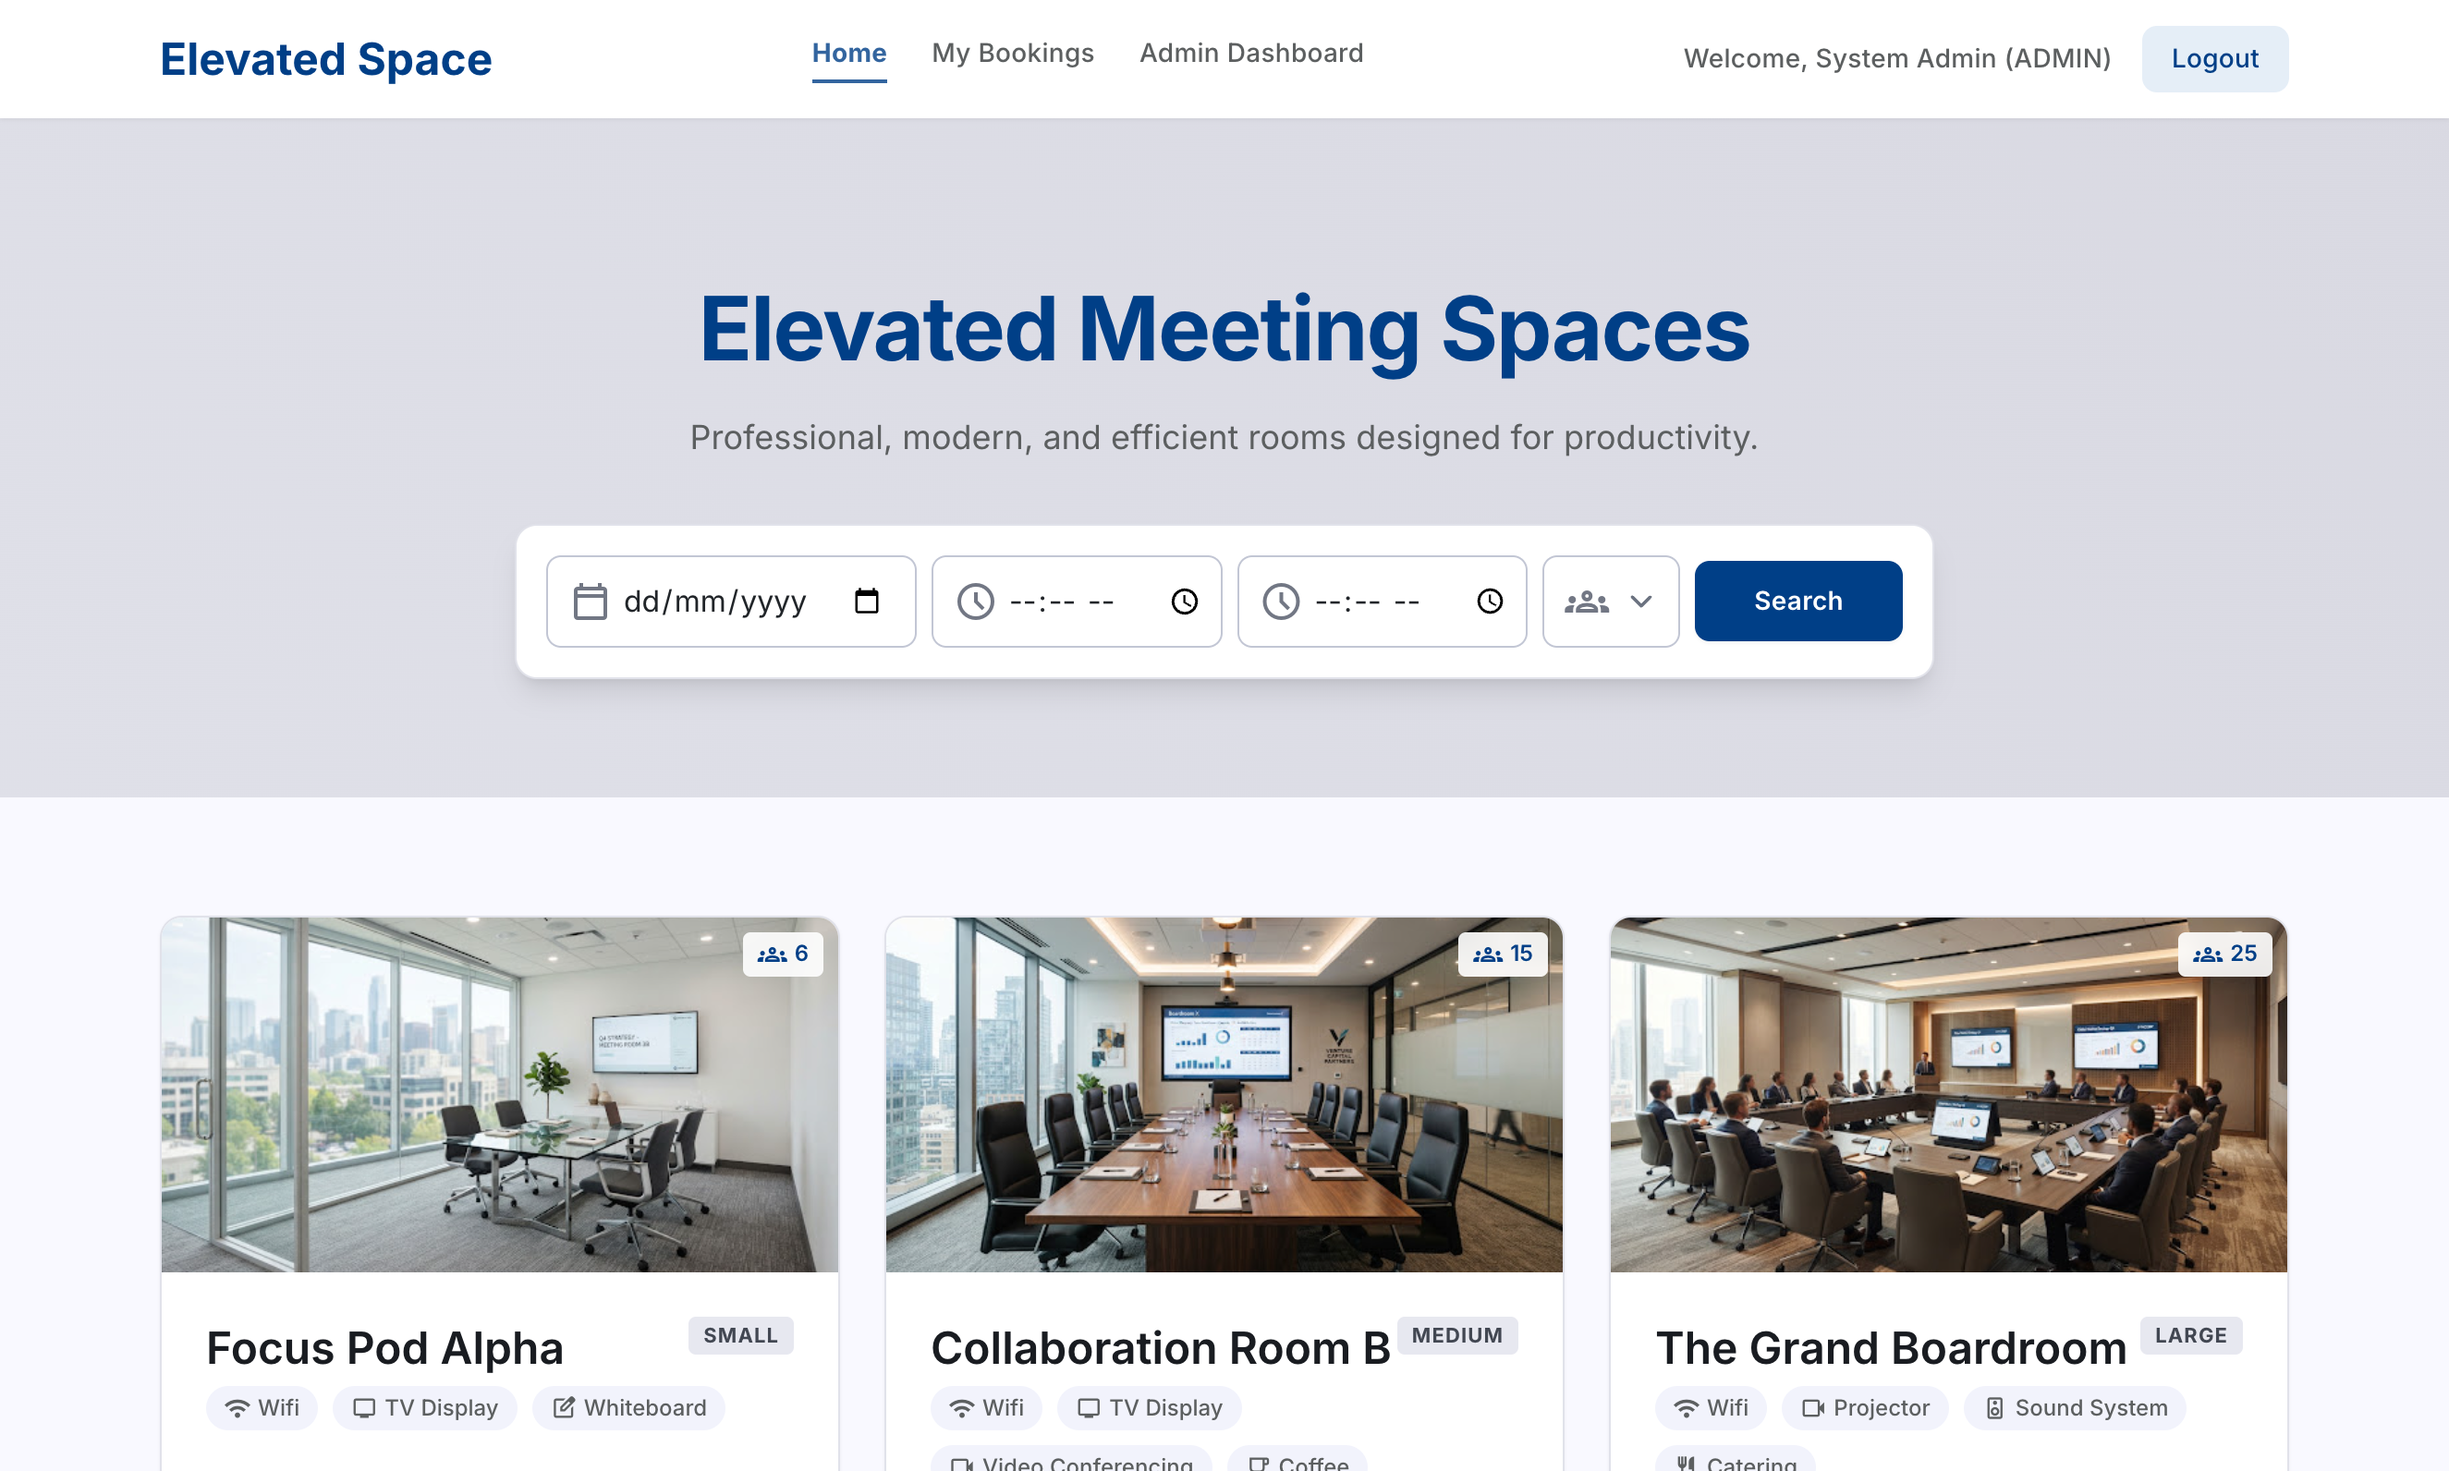
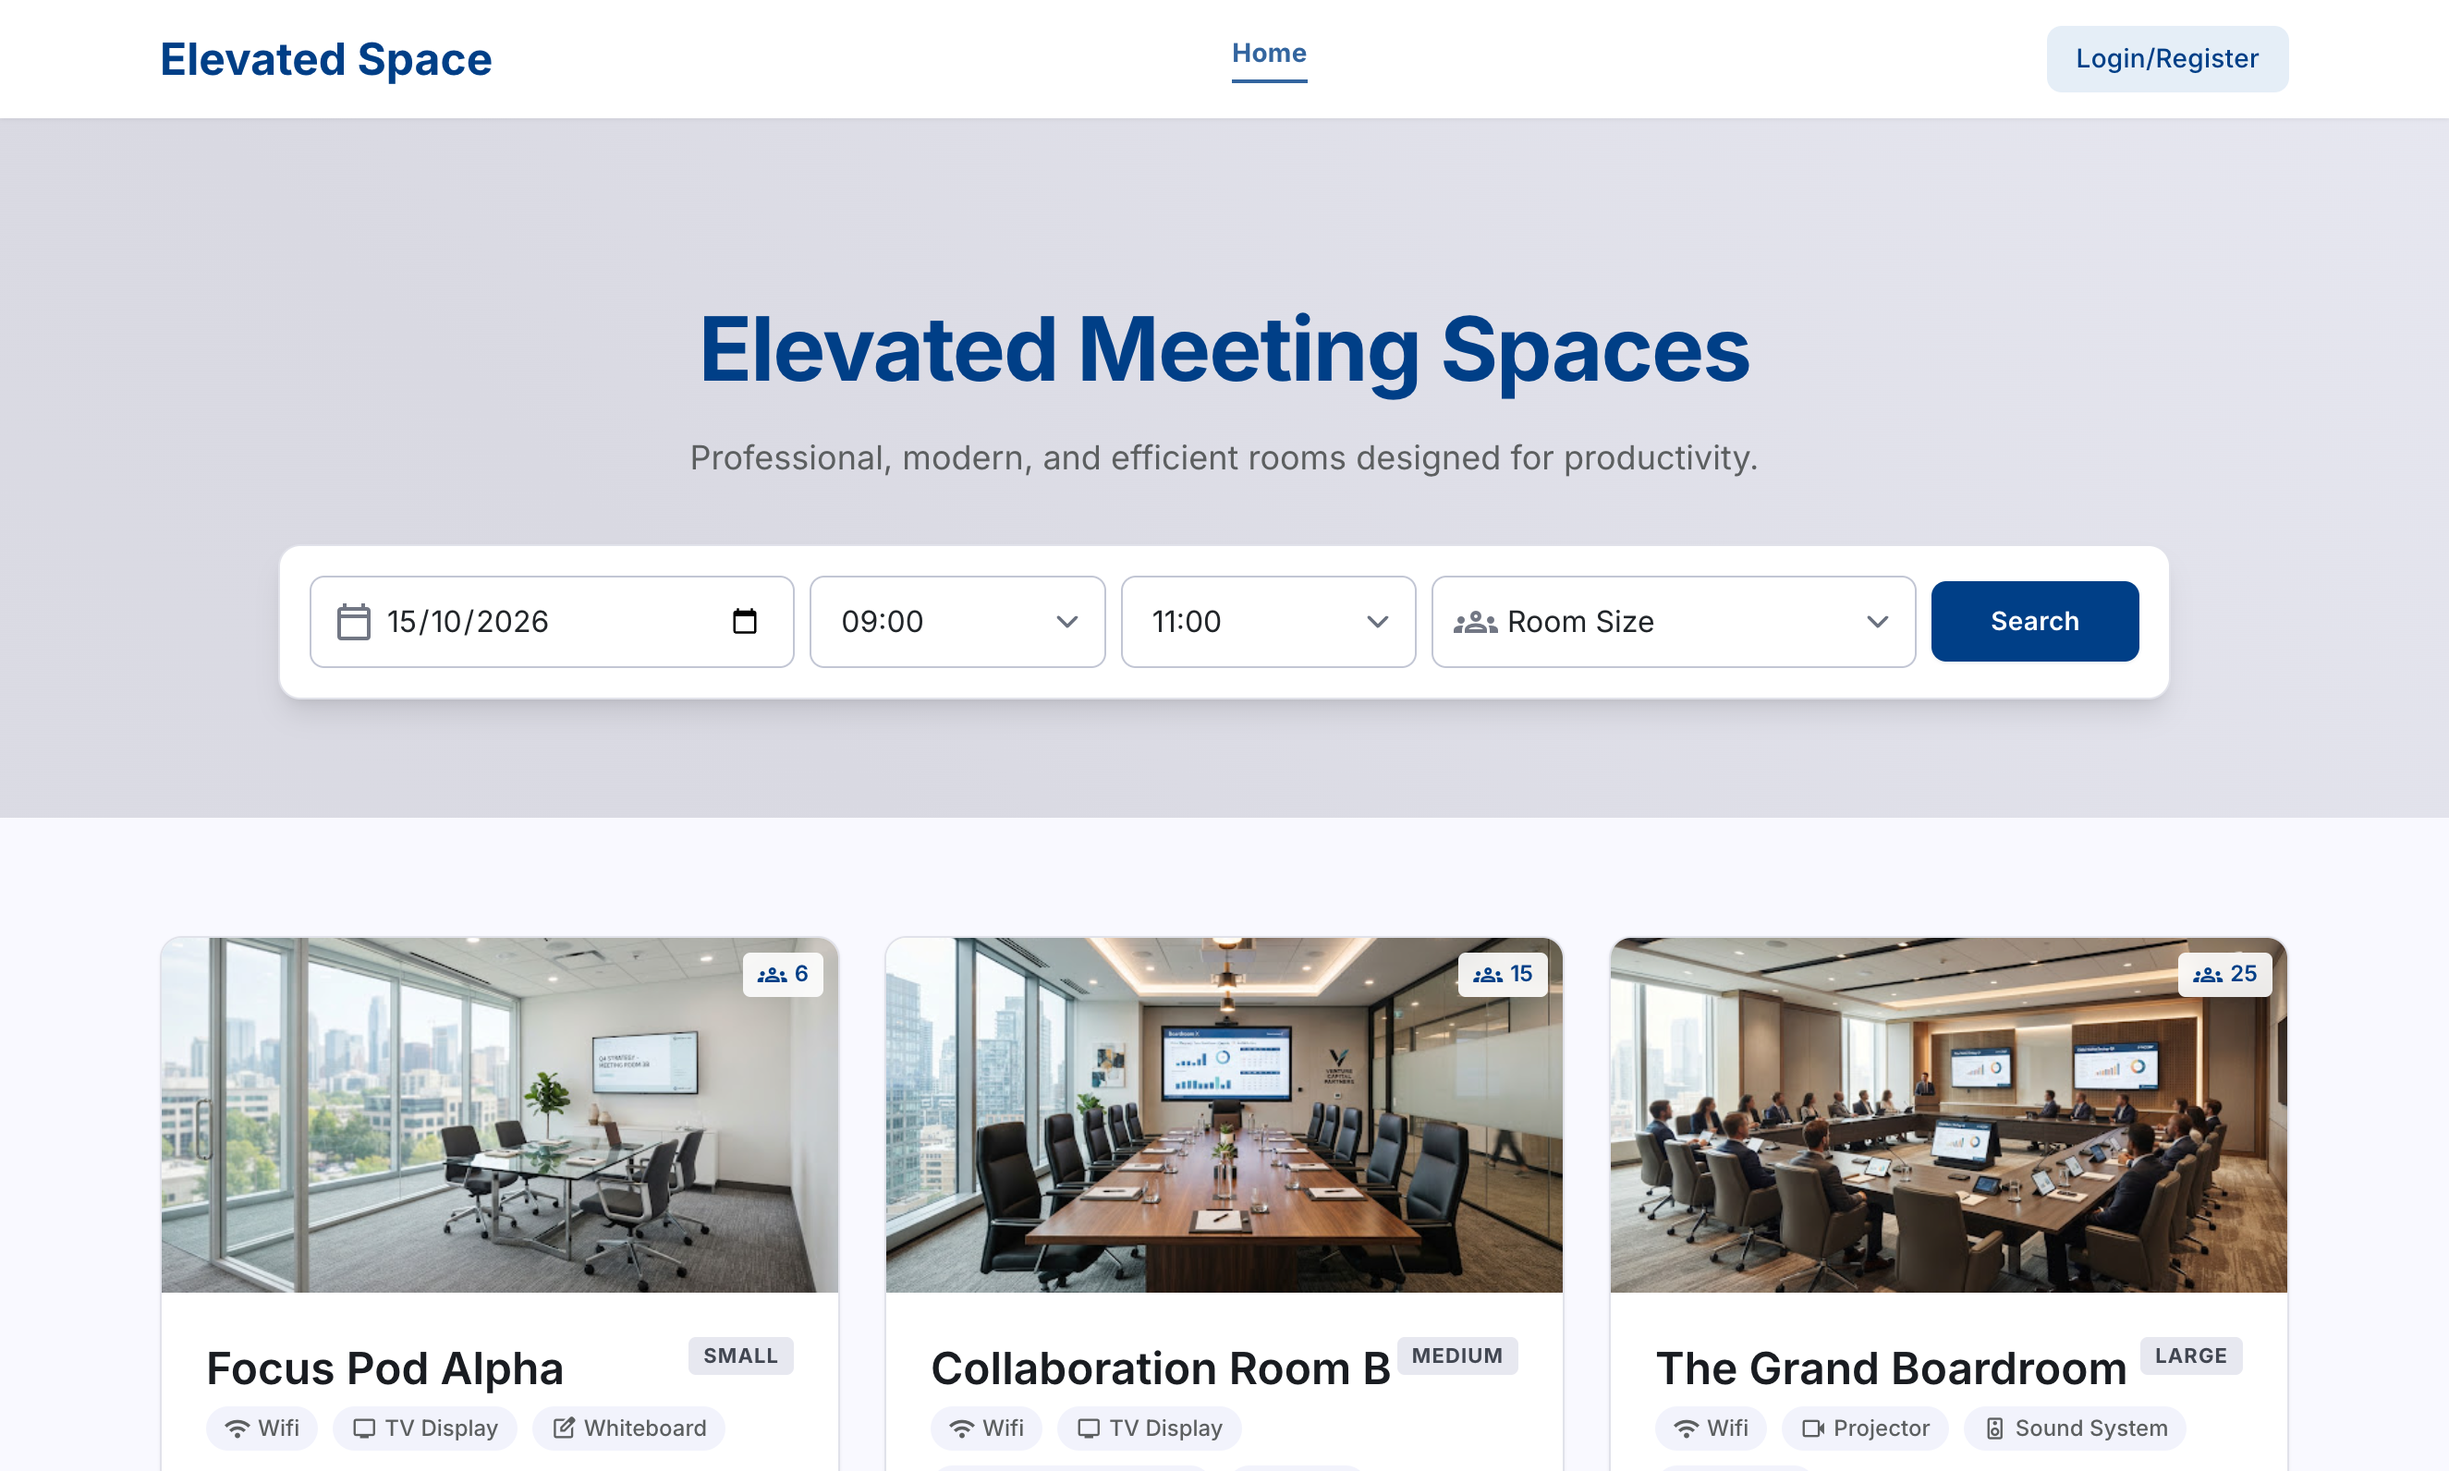
test: align TC-12 and FR-013 docs with 7-day cooling-off cancellation rule
The cancellation semantics changed in 9d60cb5 from "7 days before start"
to "within 7 days of purchase (cooling-off), before start time" — this
aligns the test case and documentation with the implemented behaviour:

- TC-12 rewritten: verifies cooling-off rejection for purchases older
  than 7 days (backdated createdAt), rejection of already-started
  bookings, plus the existing ownership/refund/re-book/audit checks
- SRS FR-013 + US-09, testing.md (TC-12 row, manual step 10) and README
  reworded to the cooling-off rule
- Cancel button tooltip updated to match
- Refreshed test-results and home screenshots (12/12 passing)

diff --git a/tests/suite.js b/tests/suite.js
@@ -238,12 +238,12 @@
         assertEquals(mine[0].userId, 'U002', 'Returned booking must belong to the signed-in user');
     });
 
-    // TC-12 — Customer cancellation window and refund (FR-013)
-    test('TC-12', 'Customers can cancel their own bookings at least 7 days before start; the slot is released and the payment refunded.', 'FR-013', async () => {
-        // Far-future booking (60 days out) on R001 -> cancellable
-        const farDate = new Date(Date.now() + 60 * 24 * 60 * 60 * 1000).toISOString().split('T')[0];
+    // TC-12 — Customer cancellation: 7-day cooling-off from purchase (FR-013)
+    test('TC-12', 'Customers can cancel their own bookings within 7 days of purchase and before start time; the slot is released and the payment refunded.', 'FR-013', async () => {
+        // Future booking on R001, purchased just now -> cancellable
+        const futureDate = new Date(Date.now() + 60 * 24 * 60 * 60 * 1000).toISOString().split('T')[0];
         setSession(EMPLOYEE);
-        const far = await window.EMS.Booking.createBooking('R001', farDate, '10:00', '12:00');
+        const far = await window.EMS.Booking.createBooking('R001', futureDate, '10:00', '12:00');
         await window.EMS.Booking.confirmPayment(far.id);
 
         // Another user must not cancel someone else's booking
@@ -253,31 +253,42 @@
             'own bookings', 'Users must only cancel their own bookings'
         );
 
-        // Owner cancels: status CANCELLED, mock payment refunded
+        // Owner cancels during the cooling-off window: CANCELLED + refunded
         setSession(EMPLOYEE);
         const cancelled = await window.EMS.Booking.cancelBooking(far.id);
         assertEquals(cancelled.status, 'CANCELLED', 'Cancelled booking must be CANCELLED');
         assertEquals(cancelled.paymentStatus, 'REFUNDED', 'Paid amount must be refunded on cancellation');
 
         // The slot is bookable again
-        const rebooked = await window.EMS.Booking.createBooking('R001', farDate, '10:00', '12:00');
+        const rebooked = await window.EMS.Booking.createBooking('R001', futureDate, '10:00', '12:00');
         assertEquals(rebooked.status, 'PENDING', 'Released slot must be immediately re-bookable');
 
-        // Near-future booking (3 days out) must NOT be cancellable
-        const nearDate = new Date(Date.now() + 3 * 24 * 60 * 60 * 1000).toISOString().split('T')[0];
-        const near = await window.EMS.Booking.createBooking('R002', nearDate, '10:00', '11:00');
-        await window.EMS.Booking.confirmPayment(near.id);
+        // Purchase older than 7 days must NOT be cancellable (backdate createdAt)
+        const stale = await window.EMS.Booking.createBooking('R002', futureDate, '10:00', '11:00');
+        const data = window.EMS.Storage.getData();
+        data.bookings.find(b => b.id === stale.id).createdAt = new Date(Date.now() - 8 * 24 * 60 * 60 * 1000).toISOString();
+        window.EMS.Storage.saveData(data);
         await assertRejects(
-            () => window.EMS.Booking.cancelBooking(near.id),
-            '7 days', 'Cancellations inside the 7-day window must be rejected'
+            () => window.EMS.Booking.cancelBooking(stale.id),
+            'within 7 days of purchase', 'Cancellations after the 7-day cooling-off must be rejected'
+        );
+
+        // A booking whose start time has passed must NOT be cancellable
+        const yesterday = new Date(Date.now() - 24 * 60 * 60 * 1000).toISOString().split('T')[0];
+        const started = await window.EMS.Booking.createBooking('R003', yesterday, '10:00', '11:00');
+        await assertRejects(
+            () => window.EMS.Booking.cancelBooking(started.id),
+            'already started', 'Past bookings must not be cancellable'
         );
 
         // Terminal statuses can no longer be cancelled
+        const doomed = await window.EMS.Booking.createBooking('R004', futureDate, '13:00', '14:00');
+        await window.EMS.Booking.confirmPayment(doomed.id);
         setSession(ADMIN);
-        await window.EMS.Admin.markNoShow(near.id);
+        await window.EMS.Admin.markNoShow(doomed.id);
         setSession(EMPLOYEE);
         await assertRejects(
-            () => window.EMS.Booking.cancelBooking(near.id),
+            () => window.EMS.Booking.cancelBooking(doomed.id),
             'PENDING or CONFIRMED', 'NO_SHOW bookings must not be cancellable'
         );
 

diff --git a/src/app.js b/src/app.js
@@ -251,7 +251,7 @@
                 </td>
                 <td class="py-4 px-6 text-right">
                     ${canCancel(b) ? `
-                        <button class="px-3 py-1.5 bg-status-no-show/10 hover:bg-status-no-show/20 text-status-no-show rounded-md font-semibold text-label-sm transition-colors flex items-center gap-1 shadow-sm ml-auto" onclick="window.EMS.App.cancelBooking('${b.id}')" title="Cancellable until 7 days before start">
+                        <button class="px-3 py-1.5 bg-status-no-show/10 hover:bg-status-no-show/20 text-status-no-show rounded-md font-semibold text-label-sm transition-colors flex items-center gap-1 shadow-sm ml-auto" onclick="window.EMS.App.cancelBooking('${b.id}')" title="Cancellable within 7 days of purchase, before the booking starts">
                             <span class="material-symbols-outlined text-[16px]">event_busy</span> Cancel
                         </button>
                     ` : `<span class="text-secondary text-label-sm">—</span>`}

diff --git a/docs/SRS.md b/docs/SRS.md
@@ -28,7 +28,7 @@
 | **FR-010** | The system must allow logged-in users to view their current and historical bookings, including booking and payment statuses. | Medium |
 | **FR-011** | The system must allow authorized staff to check in customers and change a booking status to NO_SHOW if they fail to check in within 30 minutes of the start time. | High |
 | **FR-012** | The system must not issue refunds for bookings marked as NO_SHOW. | Medium |
-| **FR-013** | The system must allow customers to cancel their own PENDING/CONFIRMED bookings up to 7 days before the start time; the paid amount is refunded and the time slot is released for re-booking. | Medium |
+| **FR-013** | The system must allow customers to cancel their own PENDING/CONFIRMED bookings within 7 days of purchase (cooling-off period) and before the start time; the paid amount is refunded and the time slot is released for re-booking. | Medium |
 
 ## 4. Non-Functional Requirements (NFRs)
 | ID | Requirement Description | Priority |
@@ -69,8 +69,8 @@
     *   *As an* Admin, *I want* the system to log all booking and payment status changes with timestamps, *so that* I can audit historical actions.
     *   *Acceptance Criteria:* Given any status change (e.g., Pending to Confirmed), When the action occurs, Then the database records the exact date, time, and actor.
 *   **US-09: Customer Cancellation**
-    *   *As a* Customer, *I want to* cancel my booking at least 7 days before it starts, *so that* I get my money back and the room becomes available to others.
-    *   *Acceptance Criteria:* Given a CONFIRMED booking starting more than 7 days from now, When I click Cancel in My Bookings, Then the status becomes CANCELLED, the payment is refunded, the slot is immediately re-bookable, and the action appears in the audit trail. Cancellations inside the 7-day window, and cancellations of other users' bookings, are rejected.
+    *   *As a* Customer, *I want a* 7-day cooling-off window after paying to cancel my booking, *so that* I get my money back and the room becomes available to others.
+    *   *Acceptance Criteria:* Given a CONFIRMED booking purchased within the last 7 days that has not started yet, When I click Cancel in My Bookings, Then the status becomes CANCELLED, the payment is refunded, the slot is immediately re-bookable, and the action appears in the audit trail. Cancellations after the 7-day cooling-off window, of already-started bookings, and of other users' bookings are rejected.
 
 ## 6. Requirements Traceability Matrix (RTM)
 

diff --git a/docs/testing.md b/docs/testing.md
@@ -29,7 +29,7 @@
 | TC-09 | BOOKING_CREATED / PAYMENT_CONFIRMED / CHECK_IN are audit-logged with actor and parseable ISO timestamp | FR-001, NFR-008 | `AuditLogger.js` | PASS |
 | TC-10 | Passwords stored as SHA-256 (verified against digest of `admin123`); no plaintext in storage; duplicate-email registration rejected | NFR-002 | `AuthService.js` | PASS |
 | TC-11 | `getUserBookings` returns only the signed-in user's own bookings | FR-010, NFR-007 | `BookingService.js` | PASS |
-| TC-12 | Customers can cancel their own bookings ≥ 7 days before start (status → CANCELLED, payment refunded, slot re-bookable); cancellations inside the window, of others' bookings, and of terminal statuses are rejected; audit entry recorded | FR-013, NFR-007, FR-001 | `BookingService.js` | PASS |
+| TC-12 | Customers can cancel their own bookings within the 7-day cooling-off after purchase and before start time (status → CANCELLED, payment refunded, slot re-bookable); cancellations after the window, of already-started bookings, of others' bookings, and of terminal statuses are rejected; audit entry recorded | FR-013, NFR-007, FR-001 | `BookingService.js` | PASS |
 
 ## 3. Manual UI Verification (Golden Path)
 
@@ -44,7 +44,7 @@
 | 7. Admin "Check-in" on the CONFIRMED booking | Status → IN_USE; action buttons disappear; CHECK_IN entry appears in Audit Trail panel | FR-011, FR-001 | PASS |
 | 8. Search bar (date + time + size) | Room grid narrows to available rooms matching criteria; instant (< 3 s) | FR-003, NFR-001 | PASS |
 | 9. "Book Now" after a search | Booking modal pre-fills the date and start/end times from the search bar — no re-entry needed | FR-006, FR-008 (UX) | PASS |
-| 10. "Cancel" on a booking starting > 7 days away | Confirm dialog → status CANCELLED, payment REFUNDED, Cancel button gone; slot bookable again in a new search; BOOKING_CANCELLED in audit trail | FR-013 | PASS |
+| 10. "Cancel" on a booking still inside the 7-day cooling-off window | Confirm dialog → status CANCELLED, payment REFUNDED, Cancel button gone; slot bookable again in a new search; BOOKING_CANCELLED in audit trail | FR-013 | PASS |
 
 Screenshots: `screenshots/home-room-discovery.png`, `screenshots/my-bookings.png`, `screenshots/admin-dashboard.png`.
 

diff --git a/README.md b/README.md
@@ -37,7 +37,7 @@ localStorage.removeItem('EMS_DATA'); sessionStorage.removeItem('EMS_SESSION');
 - **Mock payment** — booking stays PENDING until "Pay Full Amount" is processed (FR-009, NFR-006)
 - **Double-booking prevention** — atomic overlap re-check inside a simulated transaction lock (FR-007, NFR-005)
 - **My Bookings** — current/past bookings with status badges, filterable (FR-010)
-- **Customer cancellation** — cancel your own booking up to 7 days before it starts; payment refunded and the slot instantly re-bookable (FR-013)
+- **Customer cancellation** — 7-day cooling-off window after purchase to cancel your own booking (before it starts); payment refunded and the slot instantly re-bookable (FR-013)
 - **Admin dashboard** — all bookings, Check-in (→ IN_USE), No-Show (→ no refund), live metrics (FR-011, FR-012)
 - **Audit trail** — every status change logged with actor and timestamp (FR-001, NFR-008)
 - **Security basics** — SHA-256 password hashing, role-gated views and actions (NFR-002, NFR-003)
